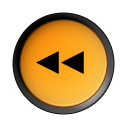
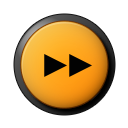
sec com

diff --git a/style.css b/style.css
@@ -16,7 +16,7 @@ body {
     top: 50%;
     left: 50%;
     transform: translate(-50%,-50%);
-   z-index: 1;
+   z-index: -1;
 }
 
 #blacklayer {
@@ -29,19 +29,100 @@ body {
 }
 
 /* card */
-/* #main {
+#main {
     width: 25%;
     background-color: #fff;
-    border-radius: 20px;
+    border-radius: 15px;
+    position: absolute;
     top: 50%;
     left: 50%;
     transform: translate(-50%,-50%);
     z-index: 999;
-
 }
 
 #image img {
-    height: 180px;
-    width: 100px;
+    height: 300px;
+    width: 100%;
     margin-top: -5px;
-} */
+    border-top-left-radius: 15px;
+    border-top-right-radius: 15px;
+}
+#player {
+    padding: 25px;
+    color: #333;
+}
+
+#songtitle {
+    width: 300px;
+    text-align: center;
+    font-family: 'Oswald', sans-serif;
+    font-size: 18px;
+    position: absolute;
+    top: 70%;
+    left: 50%;
+    transform: translate(-50%,-50%);
+}
+#buttons {
+    height: 50px;
+    width: 100%;
+    margin-top:50px;
+    position: relative;
+    top: 10%;
+    left: 74%;
+    transform: translate(-50%,-50%);
+}
+#play,#next,#pre {
+    width: 50px;
+    height: 50px;
+    border: 0;
+    background-color: white;
+    outline: none;
+    cursor: pointer;
+    position: absolute;
+    top: 50%;
+    left: 30%;
+    transform: translate(-50%,-50%);
+    font-size: 100px;
+}
+
+#next {
+    width: 30px;
+    height: 30px;
+    left: 50%;
+}
+#pre {
+    width: 30px;
+    height: 30px;
+    left: 10%;
+}
+#play img,#next img,#pre img {
+    position: absolute;
+    top: 50%;
+    left: 50%;
+    transform: translate(-50%,-50%);
+
+}
+#seek-bar {
+    height: 5px;
+    width: 250px;
+    background-color: gray;
+    display: flex;
+    border-radius: 50px;
+    margin-left: 46px;
+    cursor: pointer;
+}
+
+#fill {
+    height: 5px;
+    background-color: #fd9a13;
+    border-radius: 20px;
+}
+#handle {
+    width: 8px;
+    height: 8px;
+    background-color: #fd9a13;
+    border: 1px solid #020202;
+    border-radius: 50%;
+    margin-left: -5px;
+    transform:scale(2);
+}

diff --git a/index.html b/index.html
@@ -5,6 +5,7 @@
     <meta name="viewport" content="width=device-width, initial-scale=1.0">
     <meta http-equiv="X-UA-Compatible" content="ie=edge">
     <title>Document</title>
+    <link href="https://fonts.googleapis.com/css?family=Oswald" rel="stylesheet">
     <link rel="stylesheet" href="style.css">
     <script type="text/javascript" src="script.js"></script>
 </head>
@@ -18,11 +19,11 @@
             <img src="images/thrills.jpg" alt="">
         </div>
         <div id="player">
-            <div id="songtitle"></div>
+            <div id="songtitle">sia-cheap-thirlls</div>
             <div id="buttons">
-                <button id="pre"><img src="images/previous.png" height="90%" width="90%"/></button>
-                <button id="play"><img src="images/play.png"></button>
-                <button id="next"><img src="images/next.png" height="90%" width="90%"/></button>
+                <button id="pre"><img src="images/previous.png" height="40px" width="40px" ></button>
+                <button id="play"><img src="images/play.png" height="60px" width="60px"></button>
+                <button id="next"><img src="images/next.png" height="40px" width="40px"></button>
             </div>
             <div id="seek-bar">
                 <div id="fill"></div>

diff --git a/script.js b/script.js
@@ -1,0 +1,21 @@
+// first you create a arry for song which want to play
+
+var songs = ["cheap-thrills.mp3","amor.mp3","don,t.mp3"];
+// now create an arry of poster you want to use
+var poster = ["thills.jpg,amor.jpg,otelia.jpg"];
+
+var songtitle = document.getElementById("songtitle");
+var fillbar = document.getElementById("fill");
+
+// now create an object for audio class
+
+var song = new Audio();
+var currentSong: 0;
+
+// now i want to play song when body or window is load
+
+window.onload = playSong;    
+function playSong ();
+    song.src = songs[currentSong];
+    song.title.textContent = songs[currentSong];
+    song.play();
